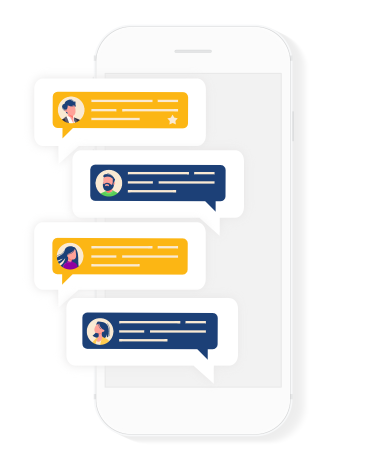
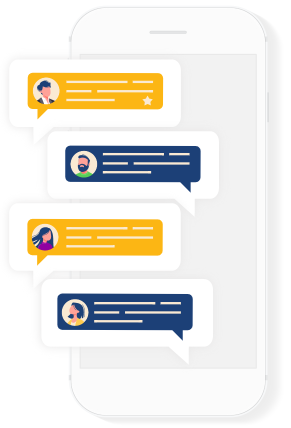
fix: benefit section

diff --git a/components/homepage/Benefit.vue b/components/homepage/Benefit.vue
@@ -1,34 +1,91 @@
 <template>
-	<div class="container">
+	<div class="benefit-item container">
 		<div class="bzg">
-			<div class="bzg_c" data-col="m6">
-				<div>
-					<i class="icon-arrow-left"></i>
-					<i class="icon-arrow-right"></i>
+			<div class="bzg_c relative pt-64" data-col="m6">
+				<div class="navigation">
+					<i class="icon-long-arrow-left mr-8"></i>
+					<i class="icon-long-arrow-right"></i>
 				</div>
+				<span class="number" :data-content="`${content.id}`"></span>
 				<div class="flex f-gap-28 v-start">
-					<img :src="`assets/img/homepage/icon-shield.png`" width="46px" />
-					<div>
-						<p>Investasi Aman & Terpercaya</p>
-						<p>
-							MOST menjamin agar Anda dapat melakukan investasi dengan aman &
-							nyaman.
-						</p>
+					<img :src="`assets/img/homepage/${content.icon}`" width="46px" />
+					<div class="text-wrapper">
+						<p class="mb-24">{{ content.heading }}</p>
+						<p class="f-24 mb-24 font-grey">{{ content.desc }}</p>
 						<nuxt-link to="">
 							<button class="btn--primary">LIHAT SELENGKAPNYA</button>
 						</nuxt-link>
 					</div>
 				</div>
 			</div>
-			<div class="bzg_c" data-col="m6"></div>
+			<div class="bzg_c benefit-img" data-col="m6">
+				<img :src="`assets/img/homepage/${content.image}`" alt="hp" />
+			</div>
 		</div>
 	</div>
 </template>
 
 <script>
 export default {
-	name: 'Benefit'
+	name: 'Benefit',
+	props: {
+		content: {
+			type: Object,
+			required: true
+		}
+	}
 }
 </script>
 
-<style lang="scss" scoped></style>
+<style lang="scss" scoped>
+.benefit-item {
+	padding: 44px 0;
+}
+
+.navigation {
+	font-size: 32px;
+
+	i {
+		&:hover {
+			color: $primary !important;
+			cursor: pointer;
+		}
+	}
+}
+.text-wrapper {
+	max-width: 355px;
+
+	p:first-child {
+		font-size: 30px;
+		font-weight: 600;
+	}
+
+	p {
+		line-height: 1.3;
+	}
+}
+
+.benefit-img {
+	display: flex;
+	justify-content: center;
+
+	img {
+		height: 500px;
+	}
+}
+
+.number:after {
+	content: attr(data-content);
+	position: absolute;
+	top: -10%;
+	left: 30%;
+	font-size: 350px;
+	line-height: 1;
+	font-weight: 700;
+	z-index: -1;
+	background: linear-gradient(to top, #fff 10%, #eff2f6 70%);
+	-webkit-background-clip: text;
+	background-clip: text;
+	-webkit-text-fill-color: transparent;
+}
+</style>

diff --git a/components/homepage/CarouselBenefit.vue b/components/homepage/CarouselBenefit.vue
@@ -1,0 +1,57 @@
+<template>
+	<div class="benefit">
+		<VueSlickCarousel v-bind="settings">
+			<div v-for="benefit in benefits" :key="benefit.id" class="slick-item">
+				<homepageBenefit :content="benefit" />
+			</div>
+		</VueSlickCarousel>
+	</div>
+</template>
+
+<script>
+export default {
+	name: 'CarouselBenefit',
+	data() {
+		return {
+			benefits: [
+				{
+					id: 1,
+					icon: 'icon-shield.png',
+					heading: 'Investasi Aman & Terpercaya',
+					desc: 'MOST menjamin agar Anda dapat melakukan investasi dengan aman & nyaman.',
+					image: 'benefit-1.png'
+				},
+				{
+					id: 2,
+					icon: 'icon-hp.png',
+					heading: 'Cukup Satu Akun untuk Akses Lengkap',
+					desc: 'Dapatkan keuntungan maksimal berinvestasi di pasar modal hanya dengan satu akun MOST.',
+					image: 'benefit-2.png'
+				},
+				{
+					id: 3,
+					icon: 'icon-lamp.png',
+					heading: 'Sarana Belajar Investasi, Gratis!',
+					desc: 'Temukan caramu lebih mahir meraih profit bersama para MOST Advisors dan analis handal, lewat banyak pilihan media.',
+					image: 'benefit-3.png'
+				}
+			],
+			settings: {
+				arrows: true
+			}
+		}
+	}
+}
+</script>
+
+<style scoped>
+.benefit >>> .slick-prev {
+	top: 130px;
+	left: 40px;
+}
+
+.benefit >>> .slick-next {
+	top: 130px;
+	left: 88px;
+}
+</style>

diff --git a/assets/scss/modules/_icons.scss b/assets/scss/modules/_icons.scss
@@ -12,11 +12,11 @@
 
 @font-face {
   font-family: 'most-icon';
-  src:  url('~assets/fonts/most-icon.eot?vihd0e');
-  src:  url('~assets/fonts/most-icon.eot?vihd0e#iefix') format('embedded-opentype'),
-    url('~assets/fonts/most-icon.ttf?vihd0e') format('truetype'),
-    url('~assets/fonts/most-icon.woff?vihd0e') format('woff'),
-    url('~assets/fonts/most-icon.svg?vihd0e#most-icon') format('svg');
+  src:  url('~assets/fonts/most-icon.eot?pzvkfq');
+  src:  url('~assets/fonts/most-icon.eot?pzvkfq#iefix') format('embedded-opentype'),
+    url('~assets/fonts/most-icon.ttf?pzvkfq') format('truetype'),
+    url('~assets/fonts/most-icon.woff?pzvkfq') format('woff'),
+    url('~assets/fonts/most-icon.svg?pzvkfq#most-icon') format('svg');
   font-weight: normal;
   font-style: normal;
   font-display: block;
@@ -239,6 +239,16 @@
   content: "\f1ac";
 }
 
+
+.icon-question:before {
+  content: "\e903";
+}
+.icon-long-arrow-left:before {
+  content: "\e901";
+}
+.icon-long-arrow-right:before {
+  content: "\e902";
+}
 .icon-clock:before {
   content: "\e900";
 }

diff --git a/assets/scss/plugins/_vue-slick.scss b/assets/scss/plugins/_vue-slick.scss
@@ -17,3 +17,40 @@
 		border-radius: 50%;
 	}
 }
+
+button {
+	&.slick-arrow {
+		&.slick-prev {
+			left: 0;
+			z-index: 2;
+		}
+
+		&.slick-next {
+			right: 12px;
+		}
+
+		&.slick-next:before,
+		&.slick-prev:before {
+			display: inline-block;
+			// color: #767576;
+			color: transparent;
+			opacity: 1.00;
+			font-size: 32px;
+		}
+		
+		&.slick-prev:before {
+			content: '\e901';
+			font-family: 'most-icon';
+		}
+
+		&.slick-next:before {
+			content: '\e902';
+			font-family: 'most-icon';
+		}
+	}
+}
+			
+// .slick-prev:hover::before,
+// .slick-next:hover::before {
+// 	color: $primary !important;
+// }

diff --git a/assets/scss/modules/_typography.scss b/assets/scss/modules/_typography.scss
@@ -114,8 +114,6 @@ table {
     text-decoration: line-through;
 }
 
-
-
 .page-title, .page-title2 {
     color: $black50;
     
@@ -157,5 +155,17 @@ $sizes: 14, 16, 18, 20, 22, 24, 30, 36;
         .f-m-#{$size} {
             @include fontSize($size);
         }
+    }
+}
+
+@each $state, $color in $palettes {
+    .font-#{$state} {
+        color: $color;
+    }
+}
+
+@each $state, $color in $light-palettes {
+    .font-#{$state} {
+        color: $color;
     }
 }

diff --git a/pages/index.vue b/pages/index.vue
@@ -16,7 +16,7 @@
 			<div class="title text-center">
 				Mengapa <strong>MOST</strong> adalah pilihan tepat?
 			</div>
-			<homepageBenefit />
+			<homepageCarouselBenefit />
 		</section>
 		<div class="container"></div>
 	</main>
@@ -57,6 +57,6 @@ export default {
 }
 
 section.benefit {
-	padding: 60px;
+	padding: 60px 0;
 }
 </style>

diff --git a/assets/scss/partials/_variables.scss b/assets/scss/partials/_variables.scss
@@ -18,8 +18,8 @@ $palettes: (
 	'black': #000,
 	'red': #E51E25,
 	'green': #72BE44,
-	'grey': #828282,
-	'dark-grey': #656565
+	'grey': #707070,
+	'dark-grey': #3B3B3B
 );
 
 $light-palettes: (
